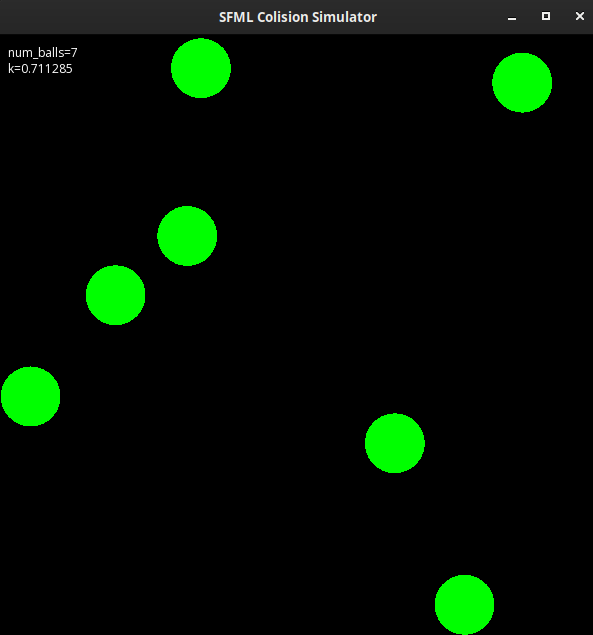
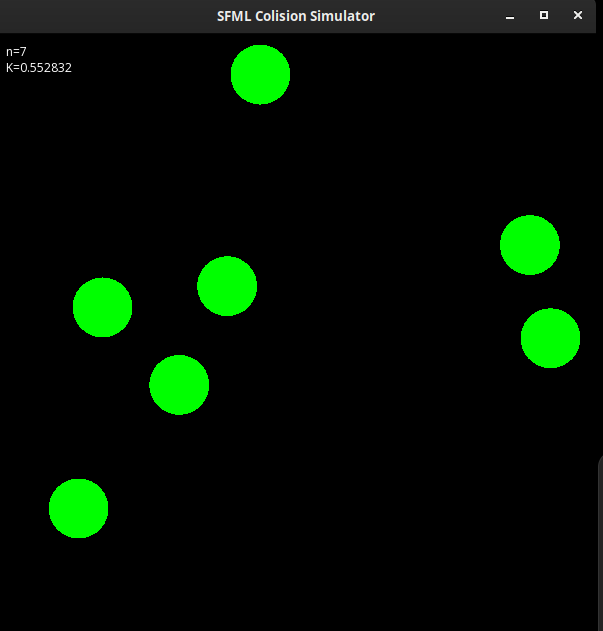
separate operations in functions; simplify info text

diff --git a/src/Simulator.cpp b/src/Simulator.cpp
@@ -31,7 +31,7 @@ Simulator::Simulator(int num_balls):
         float vx = distV(gen);
         float vy = distV(gen);
 
-        Ball* pBall = new Ball(x, y, vx, vy);
+        Ball *pBall = new Ball(x, y, vx, vy);
 
         if (pBall)
         {
@@ -46,8 +46,8 @@ Simulator::Simulator(int num_balls):
                // Check overlap
                for (int i = 0; i < count_new_balls; i++)
                {
-                   Ball* pBall_check = balls[i];
-                   if (pBall_check != pBall && colided(pBall, pBall_check))
+                   Ball *pBall_check = balls[i];
+                   if (pBall_check != pBall && colided_ball(pBall, pBall_check))
                    {
                        num_tries++;
                        delete pBall;
@@ -82,7 +82,7 @@ int Simulator::getNumBalls()
     return num_balls;
 }
 
-bool Simulator::colided(Ball* b1, Ball* b2)
+bool Simulator::colided_ball(Ball *b1, Ball *b2)
 {
     float dx = b1->getX() - b2->getX();
     float dy = b1->getY() - b2->getY();
@@ -91,6 +91,46 @@ bool Simulator::colided(Ball* b1, Ball* b2)
     float d_colision = (b1->getR() + b2->getR());
 
     return (d <= d_colision);
+}
+
+bool Simulator::colided_wall_v(Ball *b)
+{
+    return (b->getX() > (WIN_SIZE - 2*b->getR()) ||
+            b->getX() < 0);
+}
+
+bool Simulator::colided_wall_h(Ball *b)
+{
+    return (b->getY() > (WIN_SIZE - 2*b->getR()) ||
+            b->getY() < 0);
+}
+
+void Simulator::update_colision_vel(Ball *b1, Ball *b2)
+{
+    float dx = b1->getX() - b2->getX();
+    float dy = b1->getY() - b2->getY();
+
+    float rq = dx*dx + dy*dy;
+
+    float k1 = (b1->getVX()*dx + b1->getVY()*dy) / rq;
+    float k2 = (b2->getVX()*dx + b2->getVY()*dy) / rq;
+
+    // Vector projetion on the colision direction
+    float proj_vx_1 = k1 * dx;
+    float proj_vy_1 = k1 * dy;
+    float proj_vx_2 = k2 * dx;
+    float proj_vy_2 = k2 * dy;
+
+    // Vector orthogonal to the colision direction
+    float oproj_vx_1 = b1->getVX() - proj_vx_1;
+    float oproj_vy_1 = b1->getVY() - proj_vy_1;
+    float oproj_vx_2 = b2->getVX() - proj_vx_2;
+    float oproj_vy_2 = b2->getVY() - proj_vy_2;
+
+    b1->setVX(proj_vx_2 + oproj_vx_1);
+    b1->setVY(proj_vy_2 + oproj_vy_1);
+    b2->setVX(proj_vx_1 + oproj_vx_2);
+    b2->setVY(proj_vy_1 + oproj_vy_2);
 }
 
 void Simulator::execute()
@@ -127,35 +167,12 @@ void Simulator::execute()
         {
             for (int j = i+1; j < num_balls; j++)
             {
-                Ball* b1 = balls[i];
-                Ball* b2 = balls[j];
+                Ball *b1 = balls[i];
+                Ball *b2 = balls[j];
 
-                if (colided(b1, b2))
+                if (colided_ball(b1, b2))
                 {
-                    float dx = b1->getX() - b2->getX();
-                    float dy = b1->getY() - b2->getY();
-
-                    float rq = dx*dx + dy*dy;
-
-                    float k1 = (b1->getVX()*dx + b1->getVY()*dy) / rq;
-                    float k2 = (b2->getVX()*dx + b2->getVY()*dy) / rq;
-
-                    // Vector projetion on the colision direction
-                    float proj_vx_1 = k1 * dx;
-                    float proj_vy_1 = k1 * dy;
-                    float proj_vx_2 = k2 * dx;
-                    float proj_vy_2 = k2 * dy;
-
-                    // Vector orthogonal to the colision direction
-                    float oproj_vx_1 = b1->getVX() - proj_vx_1;
-                    float oproj_vy_1 = b1->getVY() - proj_vy_1;
-                    float oproj_vx_2 = b2->getVX() - proj_vx_2;
-                    float oproj_vy_2 = b2->getVY() - proj_vy_2;
-
-                    b1->setVX(proj_vx_2 + oproj_vx_1);
-                    b1->setVY(proj_vy_2 + oproj_vy_1);
-                    b2->setVX(proj_vx_1 + oproj_vx_2);
-                    b2->setVY(proj_vy_1 + oproj_vy_2);
+                    update_colision_vel(b1, b2);
                 }
             }
         }
@@ -163,15 +180,13 @@ void Simulator::execute()
         // Check colision with walls
         for (int i = 0; i < num_balls; i++)
         {
-            Ball* b = balls[i];
+            Ball *b = balls[i];
 
-            if (b->getX() > (WIN_SIZE - 2*b->getR()) ||
-                b->getX() < 0)
+            if (colided_wall_v(b))
             {
                 b->setVX((-1) * b->getVX());
             }
-            if (b->getY() > (WIN_SIZE - 2*b->getR()) ||
-                b->getY() < 0)
+            if (colided_wall_h(b))
             {
                 b->setVY((-1) * b->getVY());
             }
@@ -181,7 +196,7 @@ void Simulator::execute()
         window.clear(); 
         for (int i = 0; i < num_balls; i++)
         {
-            Ball* b = balls[i];
+            Ball *b = balls[i];
             b->move();
             window.draw(b->getBody());
         }
@@ -190,7 +205,7 @@ void Simulator::execute()
         double k = 0;
         for (int i = 0; i < num_balls; i++)
         {
-            Ball* b = balls[i];
+            Ball *b = balls[i];
             float vx = b->getVX();
             float vy = b->getVY();
             k += vx*vx + vy*vy;
@@ -198,7 +213,8 @@ void Simulator::execute()
 
         // Print Info Text
         std::ostringstream ss;
-        ss << "num_balls=" << num_balls << std::endl << "k=" << k;
+        ss << "n=" << num_balls << std::endl
+           << "K=" << k;
         text.setString(ss.str());
 	    window.draw(text);
 

diff --git a/src/Simulator.h b/src/Simulator.h
@@ -15,6 +15,11 @@ public:
 
     int getNumBalls();
 
-    bool colided(Ball* ball1, Ball* ball2);
     void execute();
+
+private:
+    bool colided_ball(Ball *ball1, Ball *ball2);
+    void update_colision_vel(Ball *b1, Ball *b2);
+    bool colided_wall_v(Ball *b);
+    bool colided_wall_h(Ball *b);
 };
